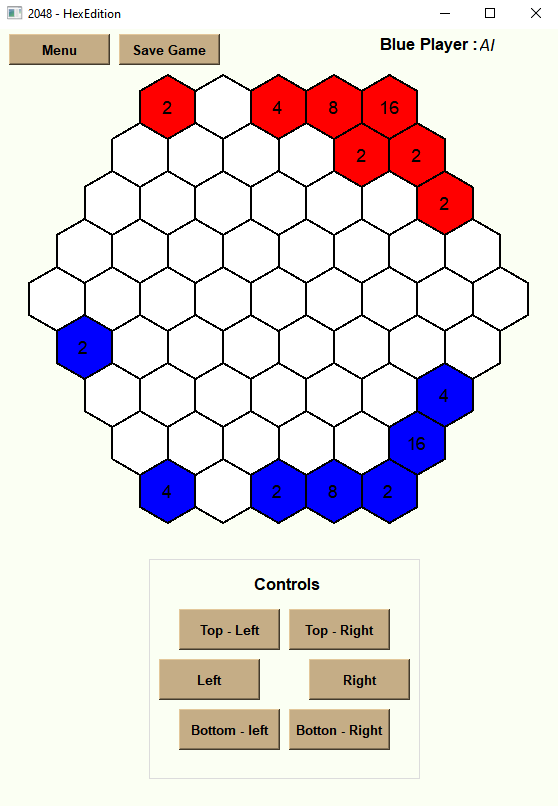
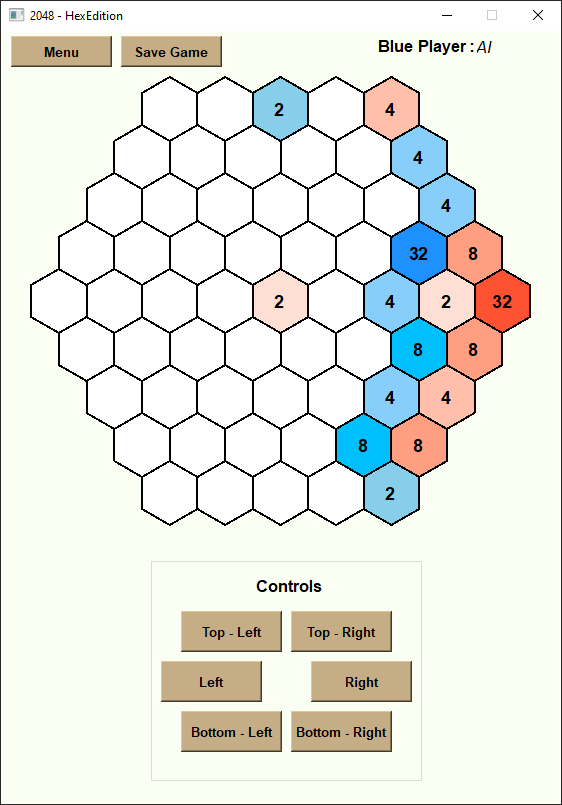
New Colors, Bugfixes, New Readme Images

diff --git a/2048_HexEdition.py b/2048_HexEdition.py
@@ -39,11 +39,6 @@ class mainWindow(QMainWindow, Ui_MainWindow, QWidget):
         self.setWindowTitle("2048 - HexEdition")
         self.scene = QGraphicsScene(self)
         self.graphics_view.setScene(self.scene)
-        self.white_brush = QBrush(Qt.white)
-        self.red_brush = QBrush(Qt.red)
-        self.blue_brush = QBrush(Qt.blue)
-        self.pen = QPen(Qt.black)
-        self.pen.setWidth(2)
         self.create_hex_map()
         self.show()
 
@@ -186,7 +181,7 @@ class mainWindow(QMainWindow, Ui_MainWindow, QWidget):
             pass
 
     def save_game_function(self):
-        if self.multi.mode == 'Client':
+        if self.multi != None and self.multi.mode == 'Client':
             print("You can't save game in Client Mode!")
             pass
         elif self.in_game and not self.in_progress:
@@ -275,7 +270,7 @@ class mainWindow(QMainWindow, Ui_MainWindow, QWidget):
                 polygon.append(QPointF(2*height + 2*i*height - j*height, side_len/2 + 3*side_len/2*j))
                 polygon.append(QPointF(height + 2*i*height - j*height, side_len + 3*side_len/2*j))
                 polygon.append(QPointF(2*i*height - j*height, side_len/2 + 3*side_len/2*j))
-                polygons_line.append(self.scene.addPolygon(polygon, self.pen))
+                polygons_line.append(self.scene.addPolygon(polygon, QPen(Qt.black, 2)))
             polygons.append(polygons_line)
         for j in range(4):
             polygons_line = []
@@ -287,7 +282,7 @@ class mainWindow(QMainWindow, Ui_MainWindow, QWidget):
                 polygon.append(QPointF(-1*height + 2*i*height + j*height, 16*side_len/2 + 3*side_len/2*j))
                 polygon.append(QPointF(-2*height + 2*i*height + j*height, 17*side_len/2 + 3*side_len/2*j))
                 polygon.append(QPointF(-3*height + 2*i*height + j*height, 16*side_len/2 + 3*side_len/2*j))
-                polygons_line.append(self.scene.addPolygon(polygon, self.pen))
+                polygons_line.append(self.scene.addPolygon(polygon, QPen(Qt.black, 2)))
             polygons.append(polygons_line)
         return polygons
 
@@ -320,18 +315,8 @@ class mainWindow(QMainWindow, Ui_MainWindow, QWidget):
         self.hextexts = self.create_text_edits(side_len, height)
 
     def update_hex_map(self):
-        if self.game.curr_turn % 2 == 0:
-            self.label_player.setText(self.player)
-            self.label_color.setText('Red')
-        else:
-            self.label_player.setText(self.player_2)
-            self.label_color.setText('Blue')
-        for lines in self.hexpolygons:
-            for element in lines:
-                element.setBrush(self.white_brush)
-        for lines in self.hextexts:
-            for element in lines:
-                element.setText("")
+        self.set_player_labels()
+        self.clear_map()
         for elem in self.game.agents:
             str_val = str(elem.value)
             if len(str_val) == 1:
@@ -341,18 +326,49 @@ class mainWindow(QMainWindow, Ui_MainWindow, QWidget):
             elif len(str_val) == 3:
                 str_val = " " + str_val
             self.hextexts[elem.pos_y][elem.pos_x].setText(str_val)
-            if elem.player == 0:
-                self.hexpolygons[elem.pos_y][elem.pos_x].setBrush(self.red_brush)
-            else:
-                self.hexpolygons[elem.pos_y][elem.pos_x].setBrush(self.blue_brush)
+            self.set_polygon_brush(elem)
         self.check_finished()
+
+    def set_player_labels(self):
+        if self.game.curr_turn % 2 == 0:
+            self.label_player.setText(self.player)
+            self.label_color.setText('Red')
+        else:
+            self.label_player.setText(self.player_2)
+            self.label_color.setText('Blue')
+
+    def clear_map(self):
+        for lines in self.hexpolygons:
+            for element in lines:
+                element.setBrush(QBrush(Qt.white))
+        for lines in self.hextexts:
+            for element in lines:
+                element.setText("")
+
+    def set_polygon_brush(self, elem):
+        red_brushes = { 2 : QBrush(QColor(255, 223, 212)), 4 : QBrush(QColor(255, 191, 170)),
+                        8 : QBrush(QColor(255, 158, 129)), 16 : QBrush(QColor(255, 123, 90)),
+                        32 : QBrush(QColor(255, 82, 50)), 64 : QBrush(QColor(255, 0, 0)),
+                        128 : QBrush(QColor(209, 21, 7)), 256 : QBrush(QColor(165, 27, 11)),
+                        512 : QBrush(QColor(122, 27, 12)), 1024 : QBrush(QColor(98, 22, 10)),
+                        2048 : QBrush(QColor(82, 23, 11)) }
+        blue_brushes = { 2 : QBrush(QColor(135, 206, 235)), 4 : QBrush(QColor(135, 206, 250)),
+                         8 : QBrush(QColor(0, 191, 255)), 16 : QBrush(QColor(100, 149, 237)),
+                         32 : QBrush(QColor(30, 144, 255)), 64 : QBrush(QColor(65, 105, 225)),
+                         128 : QBrush(QColor(0, 0, 255)), 256 : QBrush(QColor(0, 0, 225)),
+                         512 : QBrush(QColor(0, 0, 195)), 1024 : QBrush(QColor(0, 0, 165)),
+                         2048 : QBrush(QColor(0, 0, 135)) }
+        if elem.player == 0:
+            self.hexpolygons[elem.pos_y][elem.pos_x].setBrush(red_brushes[elem.value])
+        else:
+            self.hexpolygons[elem.pos_y][elem.pos_x].setBrush(blue_brushes[elem.value])
 
 
 class scoresWindow(QMainWindow, Ui_ScoresWindow, QWidget):
     def __init__(self, parent=None):
         QMainWindow.__init__(self, parent)
         self.setupUi(self)
-        self.setWindowTitle("2048 - HexEdition - Multiplayer")
+        self.setWindowTitle("2048 - Scores")
         self.show()
         if os.path.exists('scoreboards.xml'):
             scoreboards_tree = et.parse('scoreboards.xml')
@@ -373,7 +389,7 @@ class startWindow(QMainWindow, Ui_StartWindow, QWidget):
     def __init__(self, parent=None):
         QMainWindow.__init__(self, parent)
         self.setupUi(self)
-        self.setWindowTitle("2048 - HexEdition - Menu")
+        self.setWindowTitle("2048 - Menu")
         self.show()
 
         self.new_button.clicked.connect(self.new_game)
@@ -426,7 +442,7 @@ class multiWindow(QMainWindow, Ui_MultiWindow, QWidget):
 
         QMainWindow.__init__(self, parent)
         self.setupUi(self)
-        self.setWindowTitle("2048 - HexEdition - Multiplayer")
+        self.setWindowTitle("2048 - Multiplayer")
         self.show()
         self.load_data()
 

diff --git a/mainWindow.py b/mainWindow.py
@@ -1,3 +1,13 @@
+# -*- coding: utf-8 -*-
+
+################################################################################
+## Form generated from reading UI file 'Hex2048.ui'
+##
+## Created by: Qt User Interface Compiler version 5.15.2
+##
+## WARNING! All changes made in this file will be lost when recompiling UI file!
+################################################################################
+
 from PySide2.QtCore import *
 from PySide2.QtGui import *
 from PySide2.QtWidgets import *
@@ -7,10 +17,16 @@ class Ui_MainWindow(object):
     def setupUi(self, MainWindow):
         if not MainWindow.objectName():
             MainWindow.setObjectName(u"MainWindow")
-        MainWindow.resize(560, 778)
+        MainWindow.resize(560, 773)
+        sizePolicy = QSizePolicy(QSizePolicy.Fixed, QSizePolicy.Fixed)
+        sizePolicy.setHorizontalStretch(0)
+        sizePolicy.setVerticalStretch(0)
+        sizePolicy.setHeightForWidth(MainWindow.sizePolicy().hasHeightForWidth())
+        MainWindow.setSizePolicy(sizePolicy)
+        MainWindow.setMaximumSize(QSize(560, 773))
         MainWindow.setLayoutDirection(Qt.LeftToRight)
         MainWindow.setStyleSheet(u"background-color: rgb(251, 255, 243);\n"
-                                 "border-color: rgb(185, 163, 126);")
+"border-color: rgb(185, 163, 126);")
         self.centralwidget = QWidget(MainWindow)
         self.centralwidget.setObjectName(u"centralwidget")
         self.ControlButtons = QGroupBox(self.centralwidget)
@@ -73,7 +89,7 @@ class Ui_MainWindow(object):
         self.graphics_view.setLineWidth(1)
         self.label_player = QLabel(self.centralwidget)
         self.label_player.setObjectName(u"label_player")
-        self.label_player.setGeometry(QRect(480, 0, 71, 31))
+        self.label_player.setGeometry(QRect(475, 0, 81, 31))
         font2 = QFont()
         font2.setFamily(u"Arial")
         font2.setPointSize(12)
@@ -83,7 +99,7 @@ class Ui_MainWindow(object):
         self.label_player.setFont(font2)
         self.label_text_player = QLabel(self.centralwidget)
         self.label_text_player.setObjectName(u"label_text_player")
-        self.label_text_player.setGeometry(QRect(420, 0, 61, 31))
+        self.label_text_player.setGeometry(QRect(415, 0, 61, 31))
         self.label_text_player.setFont(font1)
         self.label_text_player.setAlignment(Qt.AlignCenter)
         self.save_game_button = QPushButton(self.centralwidget)
@@ -98,7 +114,7 @@ class Ui_MainWindow(object):
         self.menu_button.setStyleSheet(u"background-color: rgb(197, 173, 134)")
         self.label_color = QLabel(self.centralwidget)
         self.label_color.setObjectName(u"label_color")
-        self.label_color.setGeometry(QRect(375, 0, 41, 31))
+        self.label_color.setGeometry(QRect(370, 0, 41, 31))
         self.label_color.setFont(font1)
         self.label_color.setAlignment(Qt.AlignRight|Qt.AlignTrailing|Qt.AlignVCenter)
         MainWindow.setCentralWidget(self.centralwidget)
@@ -125,8 +141,8 @@ class Ui_MainWindow(object):
         self.tr_button.setText(QCoreApplication.translate("MainWindow", u"Top - Right", None))
         self.l_button.setText(QCoreApplication.translate("MainWindow", u"Left", None))
         self.r_button.setText(QCoreApplication.translate("MainWindow", u"Right", None))
-        self.bl_button.setText(QCoreApplication.translate("MainWindow", u"Bottom - left", None))
-        self.br_button.setText(QCoreApplication.translate("MainWindow", u"Botton - Right", None))
+        self.bl_button.setText(QCoreApplication.translate("MainWindow", u"Bottom - Left", None))
+        self.br_button.setText(QCoreApplication.translate("MainWindow", u"Bottom - Right", None))
         self.control_text.setText(QCoreApplication.translate("MainWindow", u"Controls", None))
         self.label_player.setText("")
         self.label_text_player.setText(QCoreApplication.translate("MainWindow", u"Player :", None))

diff --git a/menuWindow.py b/menuWindow.py
@@ -1,3 +1,13 @@
+# -*- coding: utf-8 -*-
+
+################################################################################
+## Form generated from reading UI file 'Hex2048_Menu.ui'
+##
+## Created by: Qt User Interface Compiler version 5.15.2
+##
+## WARNING! All changes made in this file will be lost when recompiling UI file!
+################################################################################
+
 from PySide2.QtCore import *
 from PySide2.QtGui import *
 from PySide2.QtWidgets import *
@@ -7,9 +17,15 @@ class Ui_StartWindow(object):
     def setupUi(self, StartWindow):
         if not StartWindow.objectName():
             StartWindow.setObjectName(u"StartWindow")
-        StartWindow.resize(251, 307)
+        StartWindow.resize(251, 303)
+        sizePolicy = QSizePolicy(QSizePolicy.Fixed, QSizePolicy.Fixed)
+        sizePolicy.setHorizontalStretch(0)
+        sizePolicy.setVerticalStretch(0)
+        sizePolicy.setHeightForWidth(StartWindow.sizePolicy().hasHeightForWidth())
+        StartWindow.setSizePolicy(sizePolicy)
+        StartWindow.setMaximumSize(QSize(251, 303))
         StartWindow.setStyleSheet(u"background-color: rgb(251, 255, 243);\n"
-                                  "border-color: rgb(185, 163, 126);")
+"border-color: rgb(185, 163, 126);")
         self.centralwidget = QWidget(StartWindow)
         self.centralwidget.setObjectName(u"centralwidget")
         self.new_button = QPushButton(self.centralwidget)
@@ -44,7 +60,7 @@ class Ui_StartWindow(object):
         self.quit_button.setStyleSheet(u"background-color: rgb(197, 173, 134)")
         self.nick_edit = QTextEdit(self.centralwidget)
         self.nick_edit.setObjectName(u"nick_edit")
-        self.nick_edit.setGeometry(QRect(110, 10, 111, 31))
+        self.nick_edit.setGeometry(QRect(110, 8, 131, 35))
         font1 = QFont()
         font1.setFamily(u"Arial")
         font1.setPointSize(12)
@@ -54,7 +70,7 @@ class Ui_StartWindow(object):
         self.nick_edit.setStyleSheet(u"background-color: rgb(197, 173, 134)")
         self.label_text_nickname = QLabel(self.centralwidget)
         self.label_text_nickname.setObjectName(u"label_text_nickname")
-        self.label_text_nickname.setGeometry(QRect(20, 10, 81, 31))
+        self.label_text_nickname.setGeometry(QRect(10, 8, 91, 31))
         self.label_text_nickname.setFont(font1)
         self.label_text_nickname.setAlignment(Qt.AlignCenter)
         self.multi_button = QPushButton(self.centralwidget)
@@ -80,7 +96,7 @@ class Ui_StartWindow(object):
         self.scores_button.setText(QCoreApplication.translate("StartWindow", u"Scores", None))
         self.quit_button.setText(QCoreApplication.translate("StartWindow", u"Quit", None))
         self.nick_edit.setPlaceholderText(QCoreApplication.translate("StartWindow", u"User", None))
-        self.label_text_nickname.setText(QCoreApplication.translate("StartWindow", u"Nickname", None))
+        self.label_text_nickname.setText(QCoreApplication.translate("StartWindow", u"Nickname :", None))
         self.multi_button.setText(QCoreApplication.translate("StartWindow", u"Multiplayer", None))
     # retranslateUi
 

diff --git a/multiWindow.py b/multiWindow.py
@@ -1,3 +1,13 @@
+# -*- coding: utf-8 -*-
+
+################################################################################
+## Form generated from reading UI file 'Hex2048_Multi.ui'
+##
+## Created by: Qt User Interface Compiler version 5.15.2
+##
+## WARNING! All changes made in this file will be lost when recompiling UI file!
+################################################################################
+
 from PySide2.QtCore import *
 from PySide2.QtGui import *
 from PySide2.QtWidgets import *
@@ -7,9 +17,15 @@ class Ui_MultiWindow(object):
     def setupUi(self, MultiWindow):
         if not MultiWindow.objectName():
             MultiWindow.setObjectName(u"MultiWindow")
-        MultiWindow.resize(287, 145)
+        MultiWindow.resize(301, 141)
+        sizePolicy = QSizePolicy(QSizePolicy.Fixed, QSizePolicy.Fixed)
+        sizePolicy.setHorizontalStretch(0)
+        sizePolicy.setVerticalStretch(0)
+        sizePolicy.setHeightForWidth(MultiWindow.sizePolicy().hasHeightForWidth())
+        MultiWindow.setSizePolicy(sizePolicy)
+        MultiWindow.setMaximumSize(QSize(301, 141))
         MultiWindow.setStyleSheet(u"background-color: rgb(251, 255, 243);\n"
-                                  "border-color: rgb(185, 163, 126);")
+"border-color: rgb(185, 163, 126);")
         self.centralwidget = QWidget(MultiWindow)
         self.centralwidget.setObjectName(u"centralwidget")
         self.server_button = QPushButton(self.centralwidget)
@@ -24,7 +40,7 @@ class Ui_MultiWindow(object):
         self.server_button.setStyleSheet(u"background-color: rgb(197, 173, 134)")
         self.port_edit = QTextEdit(self.centralwidget)
         self.port_edit.setObjectName(u"port_edit")
-        self.port_edit.setGeometry(QRect(20, 10, 111, 31))
+        self.port_edit.setGeometry(QRect(20, 10, 131, 35))
         font1 = QFont()
         font1.setFamily(u"Arial")
         font1.setPointSize(12)
@@ -34,7 +50,7 @@ class Ui_MultiWindow(object):
         self.port_edit.setStyleSheet(u"background-color: rgb(197, 173, 134)")
         self.address_edit = QTextEdit(self.centralwidget)
         self.address_edit.setObjectName(u"address_edit")
-        self.address_edit.setGeometry(QRect(20, 50, 111, 31))
+        self.address_edit.setGeometry(QRect(20, 50, 131, 35))
         self.address_edit.setFont(font1)
         self.address_edit.setStyleSheet(u"background-color: rgb(197, 173, 134)")
         self.connect_button = QPushButton(self.centralwidget)

diff --git a/scoresWindow.py b/scoresWindow.py
@@ -18,6 +18,12 @@ class Ui_ScoresWindow(object):
         if not ScoresWindow.objectName():
             ScoresWindow.setObjectName(u"ScoresWindow")
         ScoresWindow.resize(270, 382)
+        sizePolicy = QSizePolicy(QSizePolicy.Fixed, QSizePolicy.Fixed)
+        sizePolicy.setHorizontalStretch(0)
+        sizePolicy.setVerticalStretch(0)
+        sizePolicy.setHeightForWidth(ScoresWindow.sizePolicy().hasHeightForWidth())
+        ScoresWindow.setSizePolicy(sizePolicy)
+        ScoresWindow.setMaximumSize(QSize(270, 382))
         ScoresWindow.setStyleSheet(u"background-color: rgb(251, 255, 243);\n"
 "border-color: rgb(185, 163, 126);")
         self.centralwidget = QWidget(ScoresWindow)

diff --git a/game.py b/game.py
@@ -98,6 +98,11 @@ class game:
 
     def play_turn(self, move, create_agent=True):
         self.sort_agents(move)
+        #new_map = None
+        #while self.map != new_map:
+        #    for current_agent in self.agents:
+        #        if current_agent.player == self.curr_turn:
+        #            current_agent.move_agent(self, move)
         for current_agent in self.agents:
             if current_agent.player == self.curr_turn:
                 current_agent.move_agent(self, move)
